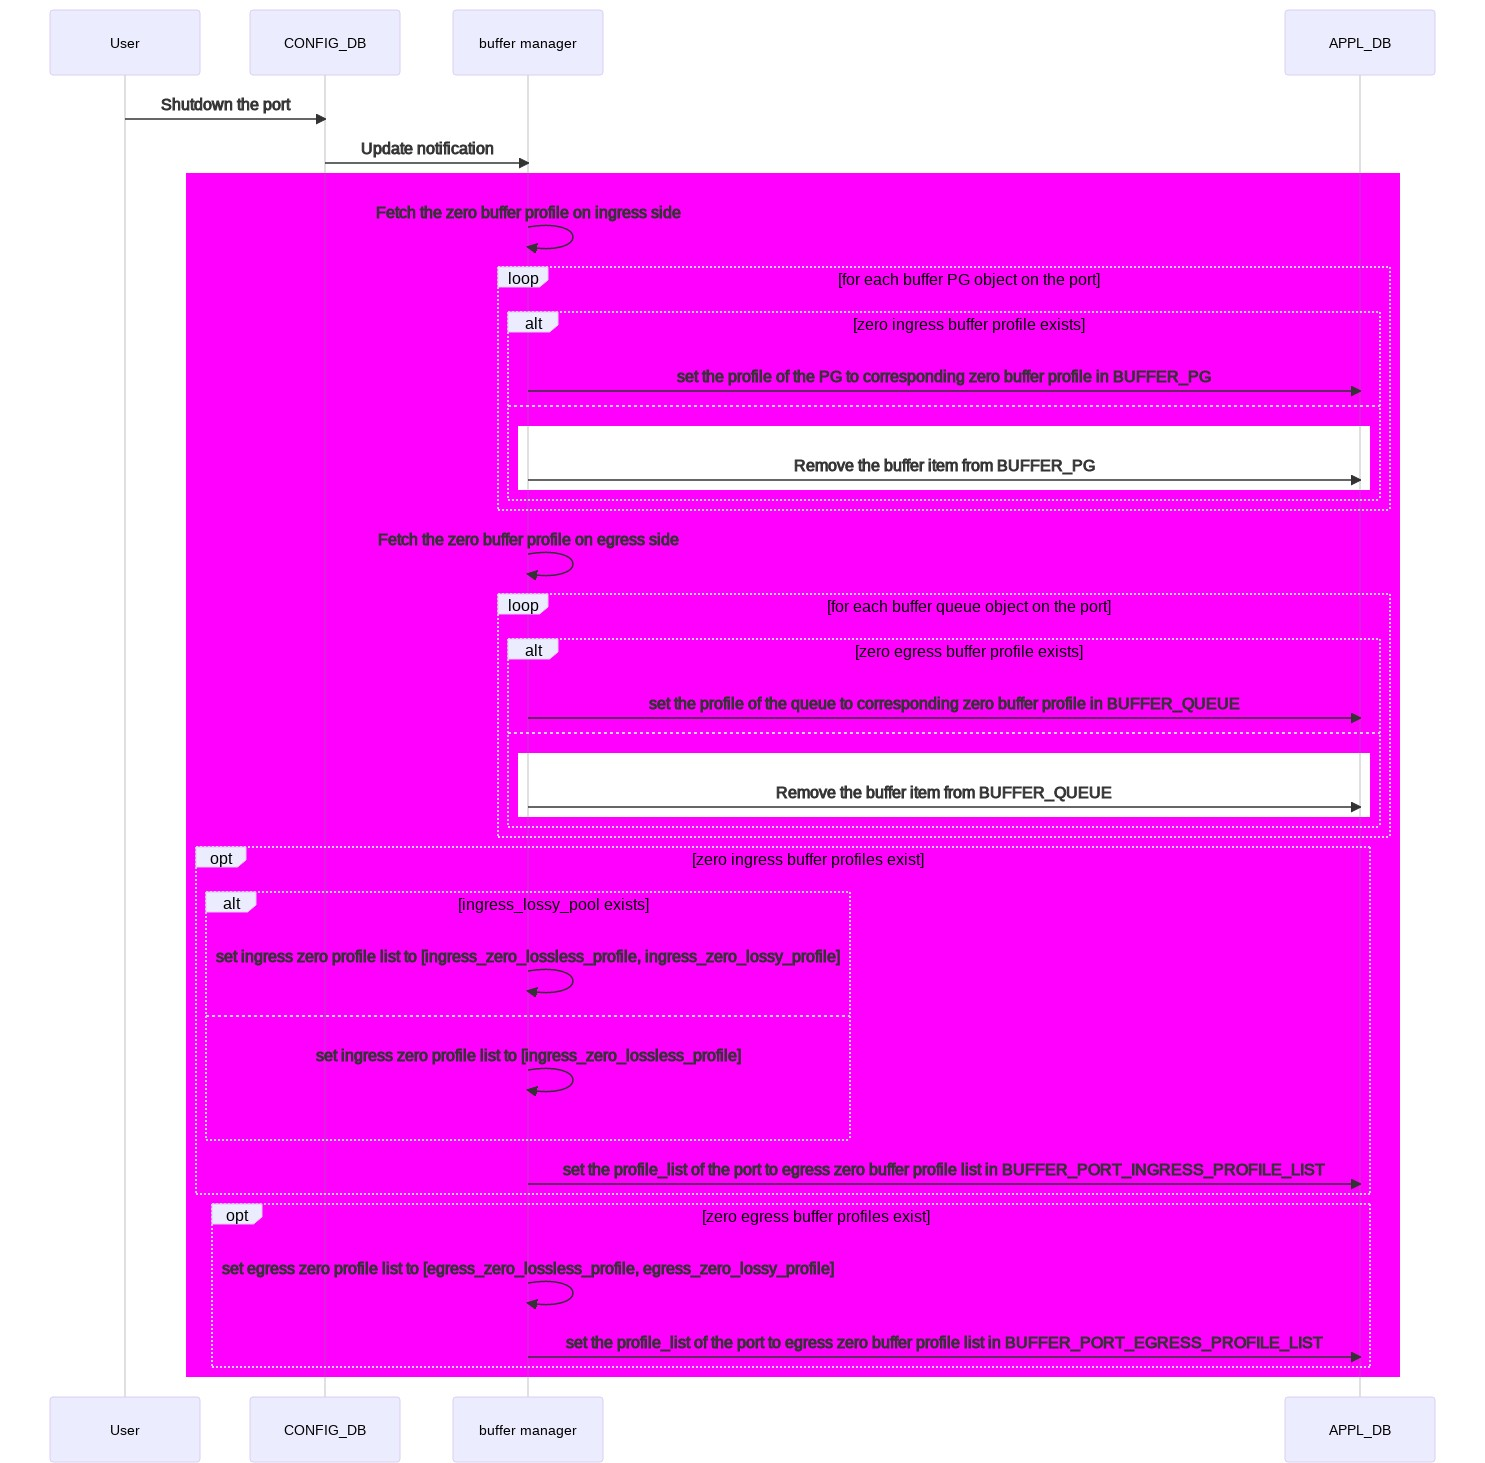
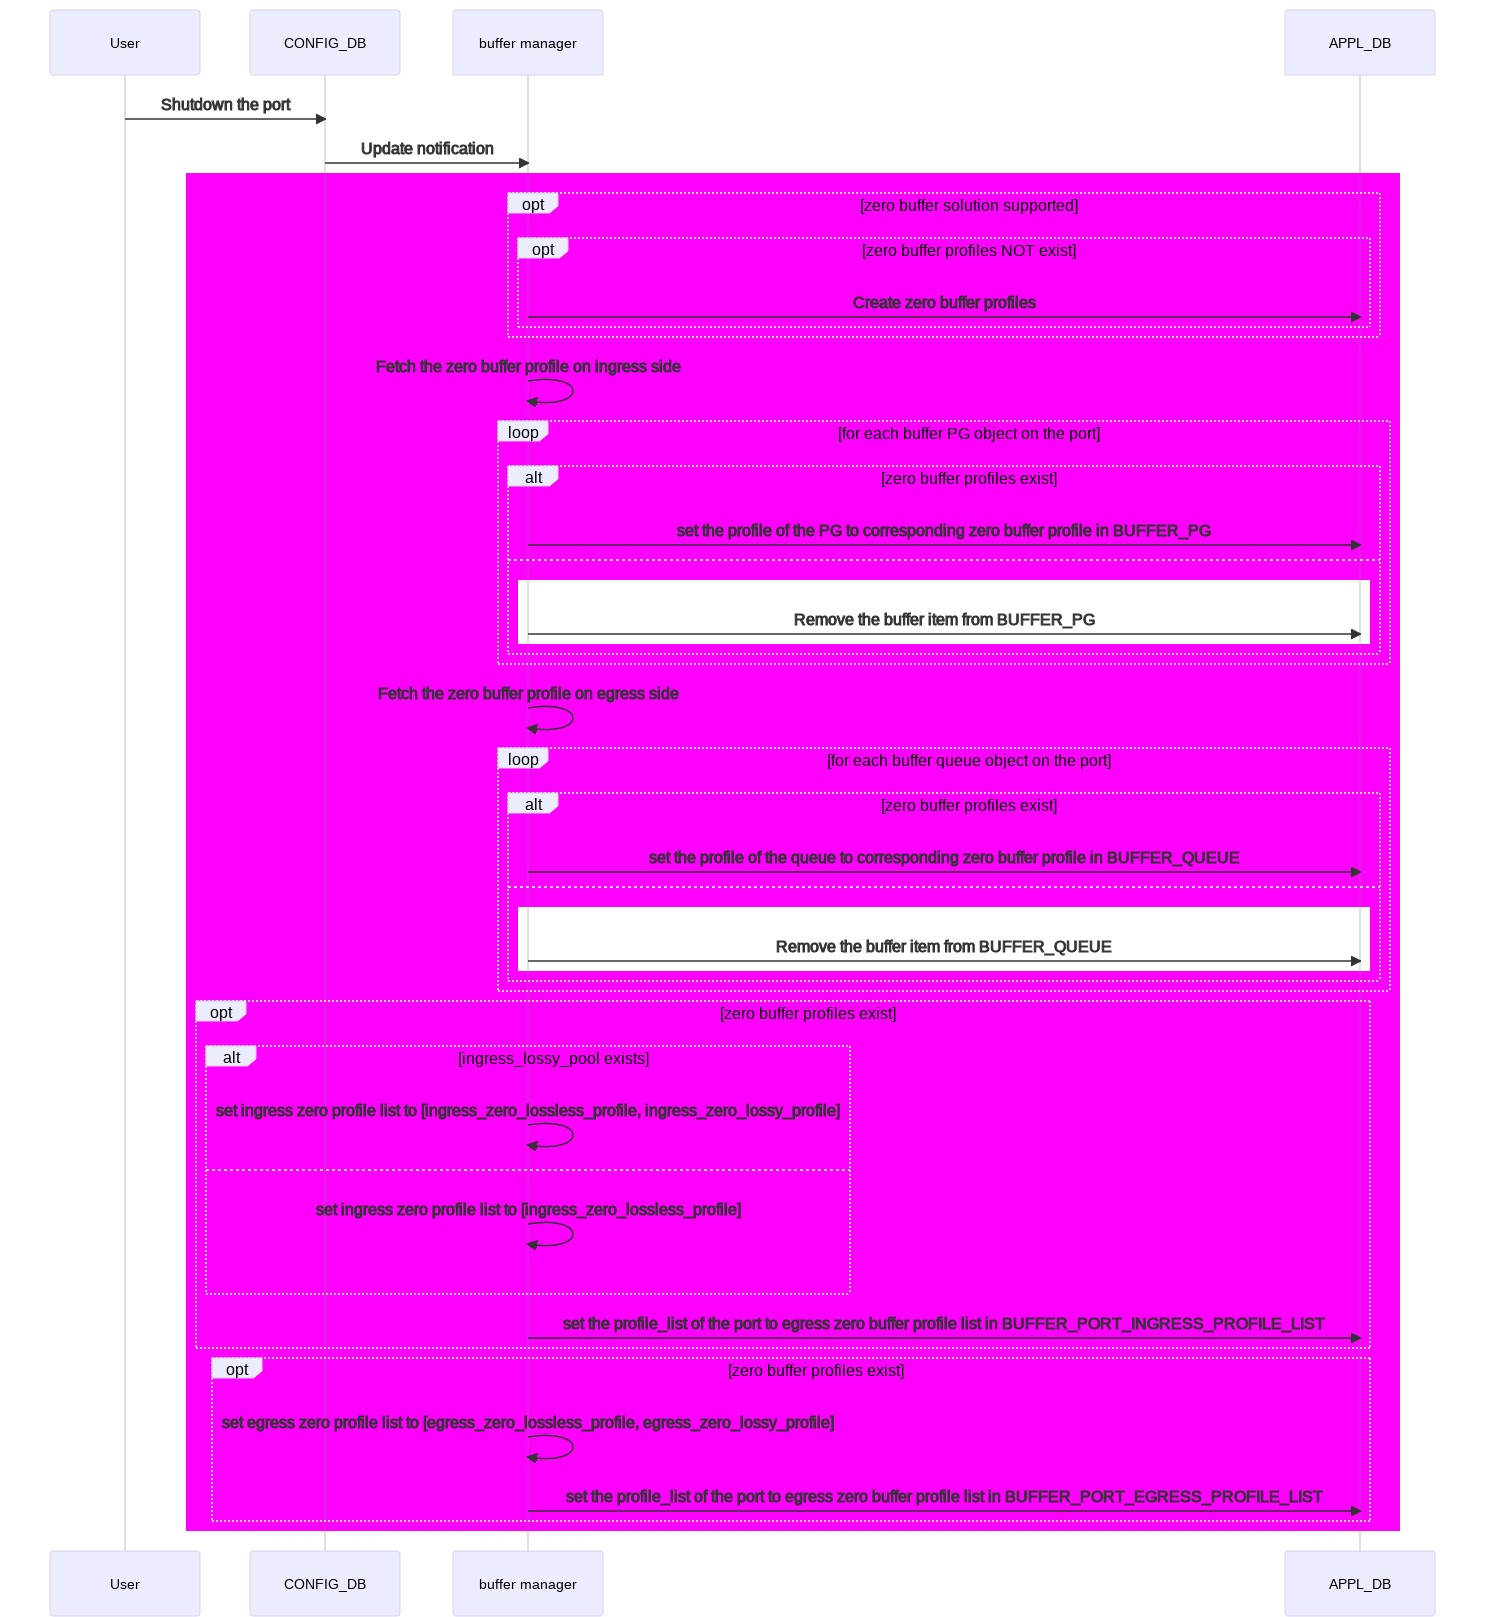
Adjust design according to latest discussion

diff --git a/doc/qos/reclaim-reserved-buffer.md b/doc/qos/reclaim-reserved-buffer.md
@@ -58,27 +58,32 @@ Now we have same SONiC configuration in 1 and 2 but different reserved buffer si
 
 To make it clear and consistent, we need the following solution:
 
-- Introduce a series of buffer profiles whose `size` is zero and `dynamic_th` is -8. This means it will neither reserve buffer nor occupy shared buffer pool. This kind of profiles will be called as `zero buffer profile` in the following section.
-- The buffer objects will be configured to:
-  - SDK default value, if there is no buffer profile configured for the object in SONiC
-  - SDK default value, if the buffer object is removed from SONiC
-  - Zero, only if the object is configured with a zero profile
+- For lossless buffer priority groups, SONiC should remove them from SAI when the port is admin down.
+- For other buffer objects:
+  - Introduce a new type of buffer profiles - `zero profile`.
+  - Apply the `zero profile` to the buffer objects in order to reclaim reserved buffer.
+- What do the `zero profile`s look like:
+  - For lossy priority groups:
+    - Create a `zero pool` with static threshold mode and 0 as buffer pool size.
+    - Create the `zero profile` with static threshold mode, and 0 for both `static_th` and `size`.
+  - For queues and buffer port ingress/egress profile list:
+    - Create a `zero profile` with dynamic threshold mode and 0 as `size`.
+- When will the `zero profile`s be created:
+  - In `traditional buffer model`:
+    - `zero profile`s will be created if there are unused ports during deployment.
+    - It's user's responsibility to create `zero profile` if he/she disables a port on-the-fly.
+  - In `dynamic buffer model`:
+    - `zero profile`s will be created once at least 1 unused port exists.
+- SAI should configure buffer objects to:
+  - SDK default value, if there is no buffer profile configured for the object in SONiC when SAI is starting.
+  - SDK default value, if a buffer object is removed from SONiC
+  - Zero, only if the object is configured with an `zero profile`
 
 To achieve it the following steps will be taken:
 
-1. Zero buffer profiles should be defined for ingress/egress and lossless/lossy traffic.
-2. Currently, there is no buffer object configured on admin-down ports. The zero profiles should be configured explicitly on admin-down ports.
-3. `ingress_lossy_profile` is for the ingress lossy priority group.
-
-   Currently, it contains all zero values but the size in the ASIC will be set to pipeline-latency by SAI/SDK. Now that zero buffer profiles have been introduced, SAI will not be able to distinguish `ingress_lossy_profile` from zero buffer profiles given that both buffer profile have `0` as their `size`.
-
-   There are two solutions to resolve it:
-   - To redefine the `ingress_lossy_profile` with pipeline latency as `size`.
-
-     This is complicated because 8-lane ports have different pipeline latency from other ports. The buffer template can not distinguish them. A standalone script is required to deploy the profile.
-   - SAI to distinguish `ingress_lossy_profile` and zero buffer profiles by using `dynamic_th`. A profile will be treated as zero profile if its `dynamic_th` is `-8`.
-4. Static buffer manager should generate priority-groups `3-4` with `ingress_lossless_zero_profile` as the profile for admin-down ports.
-5. Database migrator is required to bridge the gap between the old and new system when a switch is upgraded.
+1. A series of `zero_profile`s should be defined for ingress/egress and lossless/lossy traffic.
+2. Currently, there is no buffer object configured on admin-down ports. The `zero_profile` should be configured explicitly on admin-down ports.
+3. Database migrator is required to bridge the gap between the old and new system when a switch is upgraded.
 
 This can be implemented on a per-vendor basis. For vendors with zero buffer profiles provided in buffer template, we will go this way. Otherwise, the reserved buffer will be reclaimed by removing corresponding buffer objects.
 
@@ -142,12 +147,109 @@ The system will generate necessary items and push them into `CONFIG_DB`, which e
 
 #### 7.1.1 Buffer template update for zero buffer profiles ####
 
-Zero buffer profiles should be defined for ingress/egress and lossless/lossy traffic in the buffer template.
+##### 7.1.1.1 Macro in buffer template to generate inactive ports #####
+
+The inactive ports list is generated by the following buffer template.
+
+These macros are defined in generic buffer template file `buffer_template.j2`.
+
+The following snippet of code is to generate `PORT_INACTIVE` which contains all the inactive ports. Only `PORT_INACTIVE` is none empty will the zero buffer profiles be generated in vendor specific template.
+
+They need to be moved from the middle of `buffer_template.j2` to the place just before the vendor specific templated is imported.
 
 ```json
-{%- macro generate_zero_buffer_profiles() %}
-    {
-      "BUFFER_PROFILE" : {
+{%- set PORT_ALL  = [] %}
+
+{%- if PORT is not defined %}
+    {%- if defs.generate_port_lists(PORT_ALL) %} {% endif %}
+{%- else %}
+    {%- for port in PORT %}
+        {%- if PORT_ALL.append(port) %}{%- endif %}
+    {%- endfor %}
+{%- endif %}
+
+{%- set PORT_ACTIVE  = [] %}
+{%- set PORT_INACTIVE  = [] %}
+{%- if DEVICE_NEIGHBOR is not defined %}
+    {%- set PORT_ACTIVE = PORT_ALL %}
+{%- else %}
+    {%- for port in PORT_ALL %}
+        {%- if port in DEVICE_NEIGHBOR.keys() %}
+            {%- if PORT_ACTIVE.append(port) %}{%- endif %}
+        {%- else %}
+            {%- if PORT_INACTIVE.append(port) %}{%- endif %}
+        {%- endif %}
+    {%- endfor %}
+{%- endif %}
+
+{# Import default values from device HWSKU folder #}
+{%- import 'buffers_defaults_%s.j2' % filename_postfix as defs with context %}
+```
+
+```json
+{%- set port_names_list_inactive  = [] %}
+{%- for port in PORT_INACTIVE %}
+    {%- if port_names_list_inactive.append(port) %}{%- endif %}
+{%- endfor %}
+{%- set port_names_inactive  = port_names_list_inactive  | join(',') %}
+```
+
+```json
+{% if defs.generate_zero_buffer_objects_for_inactive_ports is defined %}
+{{ defs.generate_zero_buffer_objects_for_inactive_ports(port_names_inactive) }}
+{% endif %}
+```
+
+##### 7.1.1.2 Macro in buffer template to generate buffer pool and profiles #####
+
+Zero buffer profiles should be defined for ingress/egress and lossless/lossy traffic in the buffer template. To achieve that the macro `generate_buffer_pool_and_profiles` needs to be updated.
+
+This macro is defined in vendor specific buffer template files.
+
+```json
+{%- macro generate_buffer_pool_and_profiles() %}
+    "BUFFER_POOL": {
+{%- if dynamic_mode is not defined and PORT_INACTIVE is defined and PORT_INACTIVE|length > 0 %}
+        "ingress_zero_pool" : {
+          "mode": "static",
+          "type": "ingress",
+          "size": "0"
+        },
+{%- endif %}
+        "ingress_lossless_pool": {
+            {%- if dynamic_mode is not defined %}
+            "size": "{{ ingress_lossless_pool_size }}",
+            {%- endif %}
+            "type": "ingress",
+            "mode": "dynamic"
+        },
+        "ingress_lossy_pool": {
+            {%- if dynamic_mode is not defined %}
+            "size": "{{ ingress_lossy_pool_size }}",
+            {%- endif %}
+            "type": "ingress",
+            "mode": "dynamic"
+        },
+        "egress_lossless_pool": {
+            "size": "{{ egress_lossless_pool_size }}",
+            "type": "egress",
+            "mode": "dynamic"
+        },
+        "egress_lossy_pool": {
+            {%- if dynamic_mode is not defined %}
+            "size": "{{ egress_lossy_pool_size }}",
+            {%- endif %}
+            "type": "egress",
+            "mode": "dynamic"
+        }
+    },
+    "BUFFER_PROFILE": {
+{%- if dynamic_mode is not defined and PORT_INACTIVE is defined and PORT_INACTIVE|length > 0 %}
+        "ingress_lossy_pg_zero_profile" : {
+          "pool":"[BUFFER_POOL|ingress_zero_pool]",
+          "size":"0",
+          "static_th":"0"
+        },
         "ingress_lossless_zero_profile" : {
           "pool":"[BUFFER_POOL|ingress_lossless_pool]",
           "size":"0",
@@ -166,22 +268,52 @@ Zero buffer profiles should be defined for ingress/egress and lossless/lossy tra
         "egress_lossy_zero_profile" : {
           "pool":"[BUFFER_POOL|egress_lossy_pool]",
           "size":"0",
-          "dynamic_th":"-8"
+          "dynamic_ty":"-8"
+        },
+{%- endif %}
+        "ingress_lossless_profile": {
+            "pool":"[BUFFER_POOL|ingress_lossless_pool]",
+            "size":"0",
+            "dynamic_th":"7"
+        },
+        "ingress_lossy_profile": {
+            "pool":"[BUFFER_POOL|ingress_lossy_pool]",
+            "size":"0",
+            "dynamic_th":"3"
+        },
+        "egress_lossless_profile": {
+            "pool":"[BUFFER_POOL|egress_lossless_pool]",
+            "size":"0",
+            "dynamic_th":"7"
+        },
+        "egress_lossy_profile": {
+            "pool":"[BUFFER_POOL|egress_lossy_pool]",
+            "size":"9216",
+            "dynamic_th":"7"
+        },
+        "q_lossy_profile": {
+            "pool":"[BUFFER_POOL|egress_lossy_pool]",
+            "size":"0",
+            "dynamic_th":"3"
         }
-      }
-    }
+    },
 {%- endmacro %}
 ```
 
+##### 7.1.1.3 Macro in buffer template to apply zero buffer profiles to inactive ports #####
+
 The zero profiles should be configured explicitly on admin-down ports by the following buffer template. The `port_names` should be fed with the name list of all inactive ports.
+
+These macros are defined in vendor specific buffer template files.
 
 ```json
 {%- macro generate_zero_buffer_objects_for_inactive_ports(port_names) %}
+{%- if dynamic_mode is not defined %}
     "BUFFER_PG": {
 {% for port in port_names.split(',') %}
         "{{ port }}|0": {
-            "profile" : "[BUFFER_PROFILE|egress_lossless_zero_profile]"
-        },
+            "profile" : "[BUFFER_PROFILE|ingress_lossy_pg_zero_profile]"
+        }{% if not loop.last %},{% endif %}
 {% endfor %}
     },
 
@@ -219,6 +351,7 @@ The zero profiles should be configured explicitly on admin-down ports by the fol
 
 {% endfor %}
     }
+{%- endif %}
 {%- endmacro %}
 
 ```
@@ -266,14 +399,6 @@ In the flow, SAI clearing reserved size of ingress lossy priority group, which i
 All other steps exist.
 
 ![Flow](reclaim-reserved-buffer-images/deploy.jpg "Figure: Deploy flow of static buffer model")
-
-#### 7.1.3 The flow to create ingress lossy priority groups on platforms with 8-lane ports ####
-
-![Flow](reclaim-reserved-buffer-images/deploy-lossy-pgs.jpg "Figure: Scripts to deploy lossy priority groups")
-
-#### 7.1.4 The flow to create a ports ####
-
-![Flow](reclaim-reserved-buffer-images/system-start.jpg "Figure: System start flow of static buffer model")
 
 #### 7.1.5 The flow to handle `speed`, `cable length` and `admin status` of the port ####
 
@@ -538,7 +663,7 @@ N/A
 
 ### 13.1 Unit Test cases ###
 
-#### Shutdown / startup a port ####
+#### 13.1.1 Shutdown / startup a port ####
 
 Lossless PGs should be removed when a port is shutdown.
 
@@ -550,7 +675,7 @@ Lossless PGs should be removed when a port is shutdown.
 
 ### 13.2 System Test cases ###
 
-#### Shutdown / startup a port ####
+#### 13.2.1 Shutdown / startup a port ####
 
 Lossless PGs should be removed when a port is shutdown. Sizes of shared headroom pool and shared buffer pool should be adjusted accordingly.
 
@@ -694,3 +819,4 @@ In the flow, SAI setting headroom size of management priority-group to zero, whi
 All other steps exist.
 
 ![Flow](reclaim-reserved-buffer-images/shutdown-sai.jpg "Figure: Shutdown flow related to SAI")
+

diff --git a/doc/qos/reclaim-reserved-buffer-images/reclaim-reserved-buffer-sequence-flow.md b/doc/qos/reclaim-reserved-buffer-images/reclaim-reserved-buffer-sequence-flow.md
@@ -42,26 +42,16 @@ sequenceDiagram
     sonic cfggen ->> DATABASE: Generate default buffer pool objects
     sonic cfggen ->> DATABASE: Generate default buffer profile objects
     rect rgb(255, 0, 255)
-        sonic cfggen ->> DATABASE: Generate default zero buffer profile objects
+        opt INACTIVE PORT is not empty
+            sonic cfggen ->> DATABASE: Generate default zero buffer profile objects
+        end
     end
     loop for each active port
         sonic cfggen ->> DATABASE: Generate BUFFER_QUEUE item for queue 0-2, 3-4, 5-6 for the port
         sonic cfggen ->> DATABASE: Generate BUFFER_PORT_INGRESS_PROFILE_LIST item
         sonic cfggen ->> DATABASE: Generate BUFFER_PORT_EGRESS_PROFILE_LIST item
-        rect rgb(255, 0, 0)
-            opt script to generate buffer priority-group DOES NOT exist?
-                rect rgb(255, 255, 255)
-                Note over sonic cfggen, DATABASE: Generat lossy PGs by rendering the buffer template if NO special script to generate them 
-                sonic cfggen ->> DATABASE: Generate lossy BUFFER_PG item PG 0 for the port, using normal ingress lossy buffer profile
-                end
-            end
-        end
-    end
-    rect rgb(255, 0, 0)
-        opt script to generate buffer priority-group exist?
-            Note over sonic cfggen, DATABASE: On platforms with 8-lane ports, the reserved size differs between normal port and 8-lane ports. In that case, special script is required to generate lossy buffer PGs
-            sonic cfggen ->> DATABASE: Call script to generate buffer priority-group for all active ports
-        end
+        Note over sonic cfggen, DATABASE: Generat lossy PGs by rendering the buffer template if NO special script to generate them 
+        sonic cfggen ->> DATABASE: Generate lossy BUFFER_PG item PG 0 for the port, using normal ingress lossy buffer profile
     end
     rect rgb(255, 0, 255)
         opt zero profiles exist
@@ -402,9 +392,14 @@ sequenceDiagram
     User ->> CONFIG_DB: Shutdown the port
     CONFIG_DB ->> buffer manager: Update notification
     rect rgb(255, 0, 255)
+        opt zero buffer solution supported
+            opt zero buffer profiles NOT exist
+                buffer manager ->> APPL_DB: Create zero buffer profiles
+            end
+        end
         buffer manager ->> buffer manager: Fetch the zero buffer profile on ingress side
         loop for each buffer PG object on the port
-            alt zero ingress buffer profile exists
+            alt zero buffer profiles exist
                 buffer manager ->> APPL_DB: set the profile of the PG to corresponding zero buffer profile in BUFFER_PG
             else
                 rect rgb(255, 255, 255)
@@ -414,7 +409,7 @@ sequenceDiagram
         end
         buffer manager ->> buffer manager: Fetch the zero buffer profile on egress side
         loop for each buffer queue object on the port
-            alt zero egress buffer profile exists
+            alt zero buffer profiles exist
             buffer manager ->> APPL_DB: set the profile of the queue to corresponding zero buffer profile in BUFFER_QUEUE
             else
                 rect rgb(255, 255, 255)
@@ -422,7 +417,7 @@ sequenceDiagram
                 end
             end
         end
-        opt zero ingress buffer profiles exist
+        opt zero buffer profiles exist
             alt ingress_lossy_pool exists
                 buffer manager ->> buffer manager: set ingress zero profile list to [ingress_zero_lossless_profile, ingress_zero_lossy_profile]
             else
@@ -430,7 +425,7 @@ sequenceDiagram
             end
             buffer manager ->> APPL_DB: set the profile_list of the port to egress zero buffer profile list in BUFFER_PORT_INGRESS_PROFILE_LIST
         end
-        opt zero egress buffer profiles exist
+        opt zero buffer profiles exist
             buffer manager ->> buffer manager: set egress zero profile list to [egress_zero_lossless_profile, egress_zero_lossy_profile]
             buffer manager ->> APPL_DB: set the profile_list of the port to egress zero buffer profile list in BUFFER_PORT_EGRESS_PROFILE_LIST
         end
